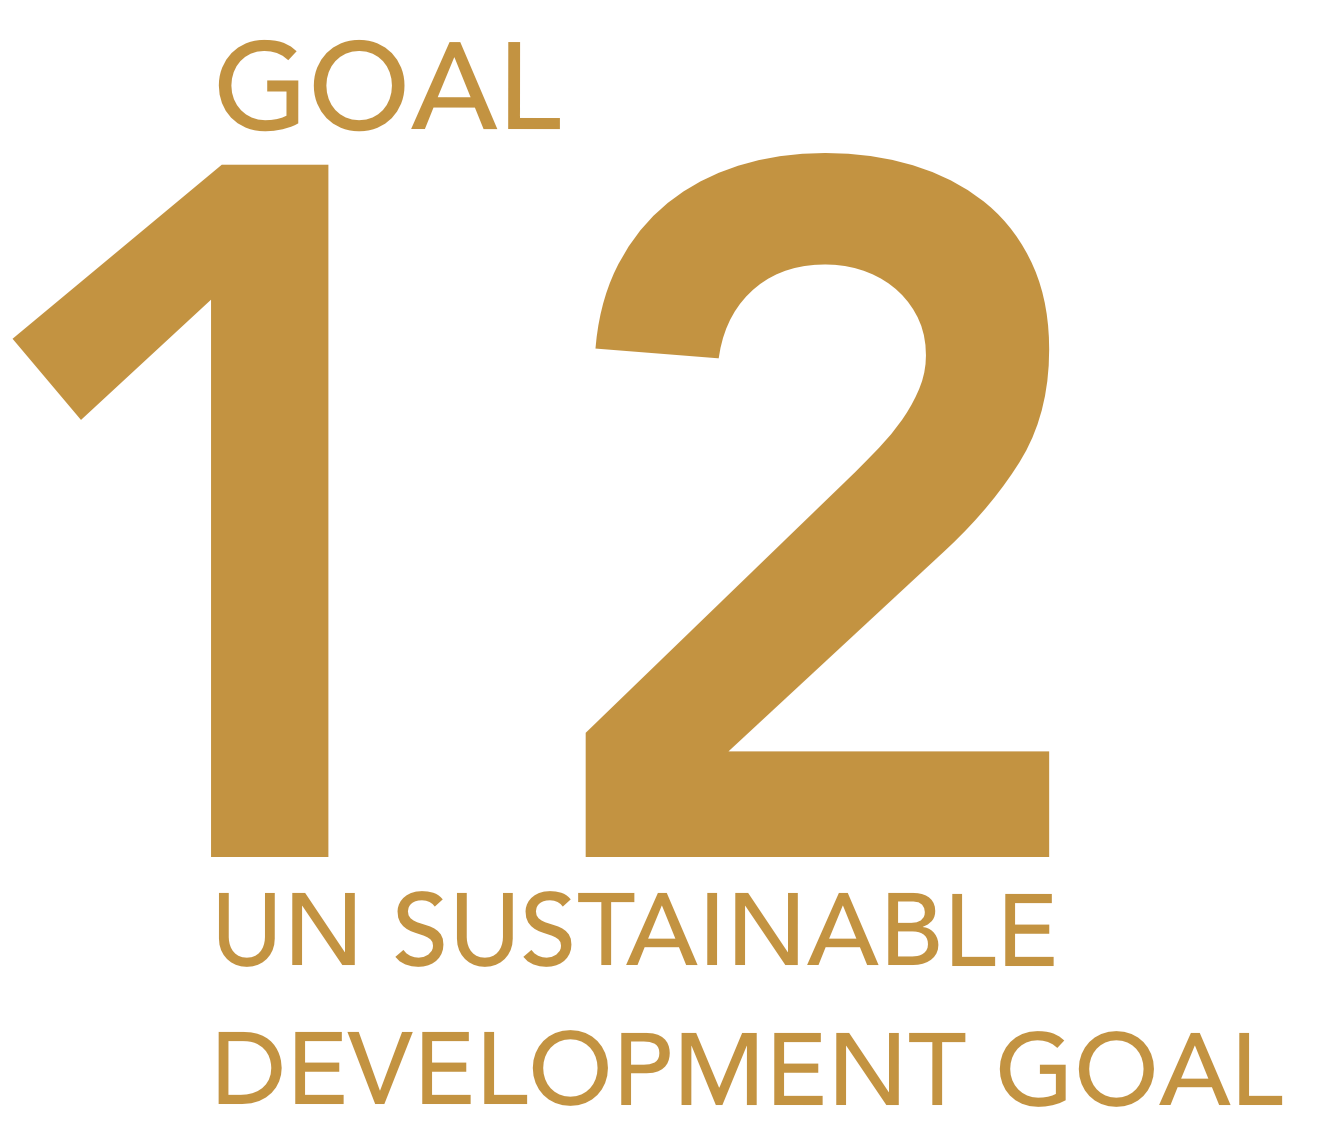
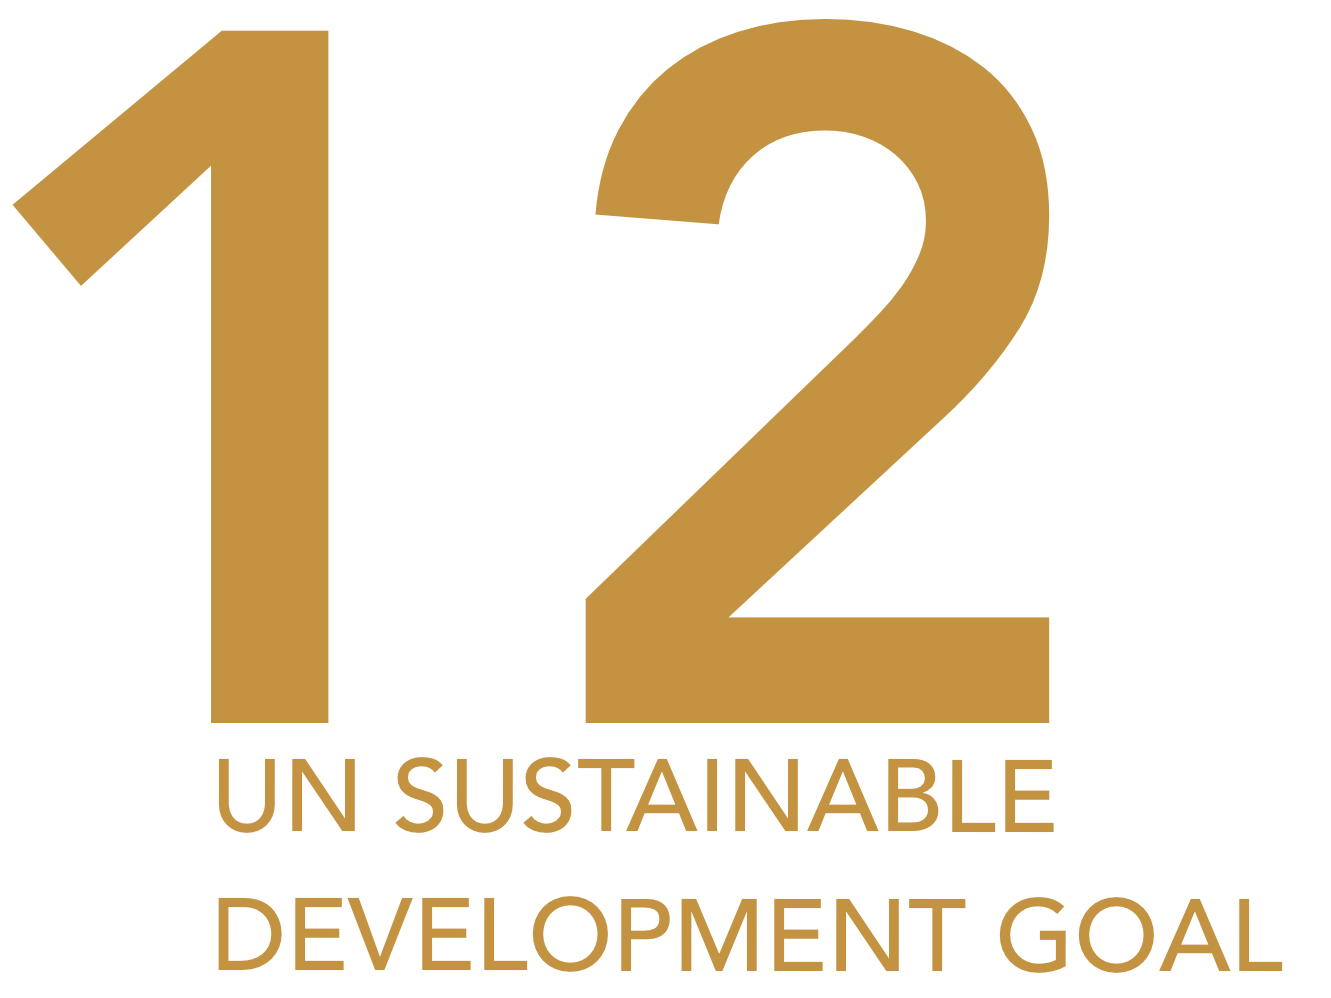
Sources fixed

Changed region(s): [[0.1555, 0.0, 0.8088, 0.8697], [0.1555, 0.9008, 0.9643, 0.994], [0.0, 0.0311, 0.4355, 0.3727]]

diff --git a/sourcesImages.html b/sourcesImages.html
@@ -37,21 +37,21 @@
                     <h2>[1] - Time Lapse Photography of Person Standing Near a Train</h2>
                     <p>Found at: <a href="index.html">Homepage</a></p>
                     <p>Link: <a href="https://www.pexels.com/photo/time-lapse-photography-of-person-standing-near-train-2120010/">www.pexels.com</a></p>
-                    <img src="/Pictures/tog3.jpg" width="300px" height="auto">
+                    <img src="Pictures/tog3.jpg" alt="The back of a woman looking at a train passing by so quickly it is blurry." width="300px" height="auto">
                     <p><b>Photographer: </b>Jeffrey Czum</p>
 				</div>
 				<div><br>
                     <h2>[2] - Photo of People Using Laptop</h2>
                     <p>Found at: <a href="index.html">Homepage</a></p>
                     <p>Link: <a href="https://www.pexels.com/photo/photo-of-people-using-laptop-3194519/">www.pexels.com</a></p>
-                    <img src="/Pictures/Us.jpg" width="300px" height="auto">
+                    <img src="Pictures/Us.jpg" alt="Arms leaning over a table with computers and phones, working." width="300px" height="auto">
                     <p><b>Photographer: </b>Canva Studio</p>
                 </div>
                 <div><br>
                     <h2>[3] - Airplane</h2>
                     <p>Found at: <a href="problem.html">Problem</a></p>
                     <p>Link: <a href="https://www.pexels.com/nb-no/bilde/fly-himmel-landingsutstyr-luftfart-46148/?fbclid=IwAR0MGG2WEs4cyUFUrVU1NjsytHTsID7YIaF1vdurjYJqP9UoJ-G6FgO8mkM">www.pexels.com</a></p>
-                    <img src="/Pictures/pexels-pixabay-46148.jpg" width="300px" height="auto">
+                    <img src="Pictures/pexels-pixabay-46148.jpg" alt="Picture of a flying plane surrounded by clouds." width="300px" height="auto">
                     <p><b>Photographer: </b>Pixabay</p>
                 </div>
             </div>

diff --git a/problem.html b/problem.html
@@ -53,7 +53,7 @@
 
 				<div class="noWrap flexRow_Over800px">
 					<div id="goalImg" class="verticalAlignCenter">
-						<img src="Pictures/Goal12(2).png">
+						<img src="Pictures/Goal12.png">
 					</div>
 					<div class="verticalAlignCenter">
 						<p><span class="goalColor"><b>ENSURE SUSTAINABLE CONSUMPTION AND PRODUCTION PATTERNS</b></span><br>
